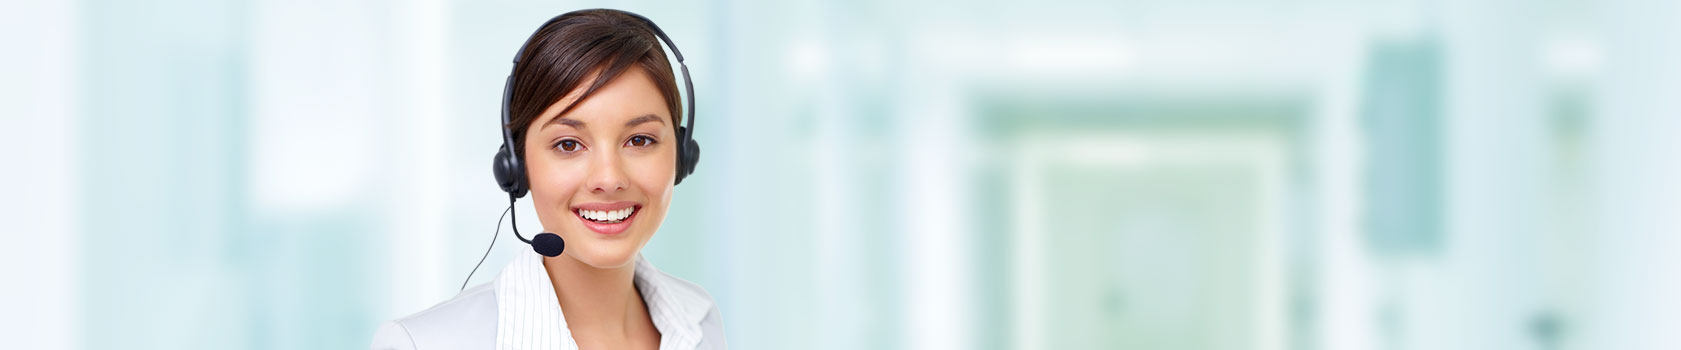
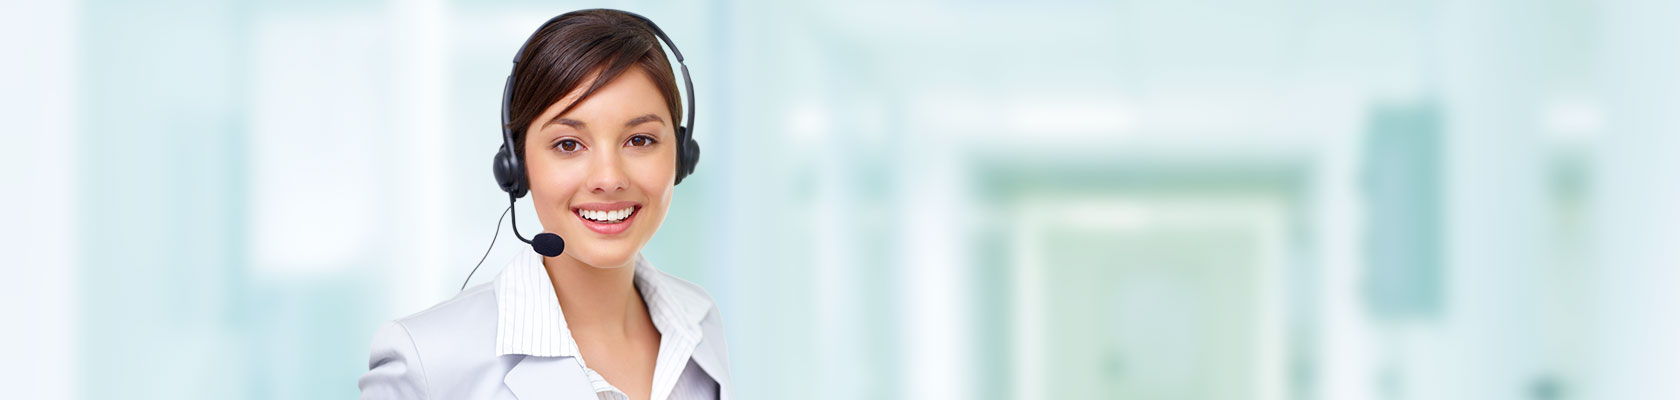
修改采购商登陆

diff --git a/采购商/登陆注册/登录.html b/采购商/登陆注册/登录.html
@@ -37,7 +37,7 @@
     <span class="phone">客服电话：400-720-6666</span>
 </header>
 
-<div style="background-color:#fff;position:height:350px;relative;top:-2px;">
+<div style="background-color:#fff;position:relative;height:400px;relative;top:-2px;">
     <div id="scrollImg" style="width:1681px;margin:0 auto;">
         <img src="/static/images/login/banner1.jpg"/>
         <img src="/static/images/login/banner2.jpg"/>
@@ -45,8 +45,9 @@
 </div>
 
 <section class="main-body clearfix login_page">
-<div class="login" style="position:absolute;width:300px;top:-370px;right:0px;">
+<div class="login" style="position:absolute;width:300px;top:-415px;right:0px;">
     <form name="loginForm" method="get" action="." onsubmit="return formValiation(this);">
+        <input type="hidden" name="user_mode" value="company_user"/>
         <div class="login_panel">
             <div class="input_area">
                 <h2 class="tt clearfix">
@@ -56,9 +57,21 @@
                     <span></span>
                 </div>
                 <div class="row large first">
+                    <i class="company_name"></i>
+                    <input type="text" name="company_name" value="" style="width:200px;border:0;" />
+                    <label class="cover">公司简称</label>
+                    <div class="pandg">
+                        <a href="javascript:void(0);">我是个人用户</a>
+                    </div>
+                    <!--<em>*</em>-->
+                </div>
+                <div class="row large">
                     <i class="username"></i>
                     <input type="text" name="username" value="" style="width:200px;border:0;" />
                     <label class="cover">用户名</label>
+                    <div class="pandg" style="display:none;">
+                        <a href="javascript:void(0);">我是公司用户</a>
+                    </div>
                     <!--<em>*</em>-->
                 </div>
                 <div class="row large">
@@ -79,7 +92,7 @@
                 </div>
 
                 <div class="row">
-                    <label><input type="checkbox" checked style="vertical-align:middle;"/>&nbsp;下次自动登录</label>
+                    <label class="autologin"><input type="checkbox" checked style="vertical-align:middle;"/>&nbsp;下次自动登录</label>
                 </div>
             </div>
 
@@ -135,6 +148,17 @@ function Error(obj,message,isShow){
     }
 
     function formValiation(form){
+        if(form['user_mode'].value == "company_user"){
+            if(form['company_name'].value == '' ){
+                Error(form['company_name'],'公司简称不能为空',true);
+                form['company_name'].focus();
+                return false;
+            }else{
+                Success(form['company_name'],'');
+            }
+        }
+
+
         if(form['username'].value == '' ){
             Error(form['username'],'用户名不能为空',true);
             form['username'].focus();
@@ -164,7 +188,7 @@ function Error(obj,message,isShow){
         $('#scrollImg').before('<div id="nav" class="slider_nav" style="left:40%;top:90%;">').cycle({fx:"fade",timeout: 2000,center:true,pause:true,pager:"#nav",pagerEvent: "click.cycle"});
     });
 
-$(".row input").focus(function(){
+    $(".row input").focus(function(){
         $(this).parent("div").find("label").hide();
     });
     $(".row input").focusout(function(){
@@ -173,6 +197,9 @@ $(".row input").focus(function(){
         if($.trim($(this).val()) == ''){
             valid = false;
             switch($(this).attr("name")){
+                case 'company_name':
+                    message = '公司简称不能为空';
+                    break;
                 case 'username':
                     message = '用户名不能为空';
                     break;
@@ -191,6 +218,24 @@ $(".row input").focus(function(){
             Success(this);
         }else{
             Error(this,message,true);
+        }
+    });
+
+    $(".row .pandg").each(function(index){
+        if(index == 0){
+            $(this).click(function(){
+                $("input[name=user_mode]").val("personal_user");
+                $(".row:eq(2)").css("margin-top","15px");
+                $(".first").hide();
+                $(".row .pandg").show();
+            });
+        }else{
+            $(this).click(function(){
+                $(".row:eq(2)").css("margin-top","0px");
+                $("input[name=user_mode]").val("company_user");
+                $(".first").show();
+                $(this).hide();
+            });
         }
     });
 

diff --git a/static/css/store_register.css b/static/css/store_register.css
@@ -91,19 +91,22 @@ body{ background:url(../images/store/landing_bg.jpg) repeat-x;}
 
 .login_panel .username {width:18px;background:url(../images/store/store_login.png) no-repeat -20px 0;}
 .login_panel .psw {width:18px;background:url(../images/store/store_login.png) no-repeat -40px 0 ;}
-.login_panel .username , .login_panel .psw {height:16px;width:16px;top:10px;position:relative;display:block;float:left;}
+.login_panel .company_name {width:18px;background:url(../images/store/store_login.png) no-repeat -63px 0 ;}
+.login_panel .username , .login_panel .psw , .login_panel .company_name {height:16px;width:16px;top:10px;position:relative;display:block;float:left;}
 
 
 .login_panel input[type=text],.login_panel input[type=password] {font-size:14px;vertical-align: middle;margin:10px 0 0 5px;color:#646464;}
 
-.login_panel .forget {color:#999999;padding:16px 10px;position:absolute;right:5px;top:-5px;}
-.login_panel .forget a {color:#777777;}
-.login_panel .forget a:hover {text-decoration: underline;}
+.login_panel .forget,.login_panel .pandg {color:#999999;padding:16px 10px;position:absolute;right:5px;top:-5px;}
+.login_panel .forget a,.login_panel .pandg a {color:#777777;}
+.login_panel .forget a:hover, .login_panel .pandg a:hover {text-decoration: underline;}
 
 .login_panel .first {margin-top:10px;}
 .login_panel .tips {margin:10px 0;padding:10px 0;border:1px solid #d49d0f;background-color:#fafadb;}
 .login_panel .tips span {color:#636363;position:relative;padding-left:5px;display:block;}
 .login_panel .authcode {position:absolute;right:-90px;top:0;width:92px;height:37px;}
+
+.login_panel .autologin {color:#646464;}
 
 .login_btns {
     padding:20px;

diff --git a/运营商/登陆页/登陆.html b/运营商/登陆页/登陆.html
@@ -97,7 +97,7 @@
     </div>
 
     <div style="background-color:#fff;height:2px"></div>
-    <div style="background-color:#fff;height:400px;">
+    <div style="background-color:#fff;height:400px;position:relative;">
         <div id="scrollImg" style="width:1680px;margin:0 auto;">
             <img src="/static/images/login/KV1.jpg"/>
             <img src="/static/images/login/KV2.jpg"/>
